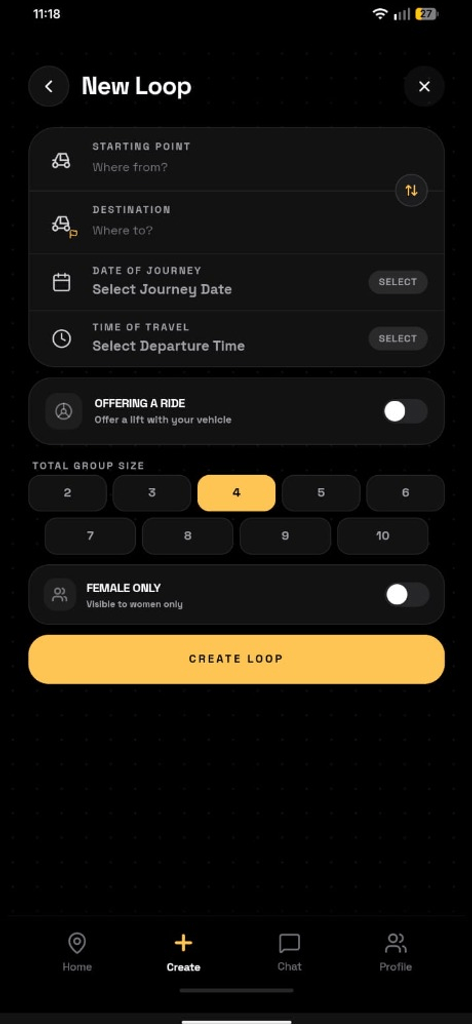
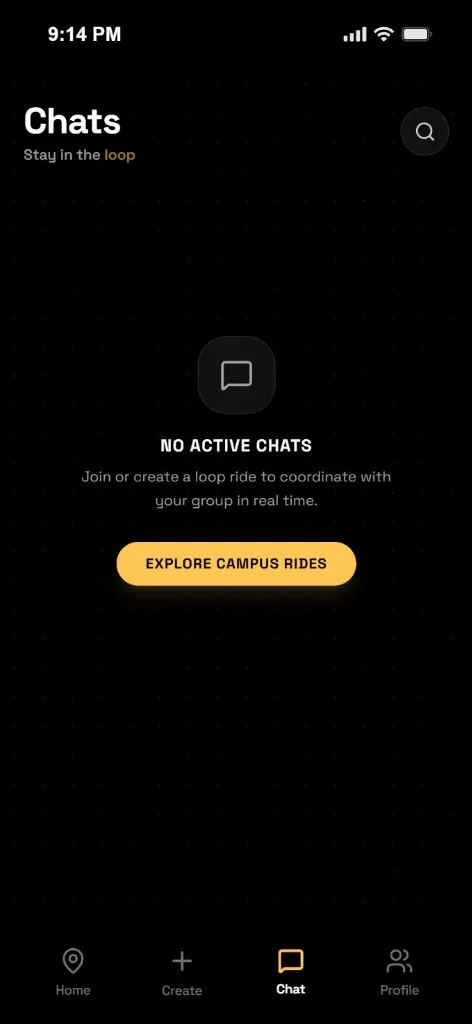
Use only the 5 screenshots provided in current session for PWA install dialog

diff --git a/Loop-App-2-codebase/src/app/manifest.ts b/Loop-App-2-codebase/src/app/manifest.ts
@@ -64,24 +64,10 @@ export default function manifest(): MetadataRoute.Manifest {
         sizes: '472x1024',
         type: 'image/png',
         form_factor: 'narrow',
-        label: 'Create Instant or Scheduled Loops',
-      },
-      {
-        src: '/screenshots/screenshot-5.png',
-        sizes: '472x1024',
-        type: 'image/png',
-        form_factor: 'narrow',
         label: 'Real-time Coordination & Group Chat',
       },
       {
-        src: '/screenshots/screenshot-6.png',
-        sizes: '472x1024',
-        type: 'image/png',
-        form_factor: 'narrow',
-        label: 'Student Profile & Customization',
-      },
-      {
-        src: '/screenshots/screenshot-7.png',
+        src: '/screenshots/screenshot-5.png',
         sizes: '472x1024',
         type: 'image/png',
         form_factor: 'narrow',
